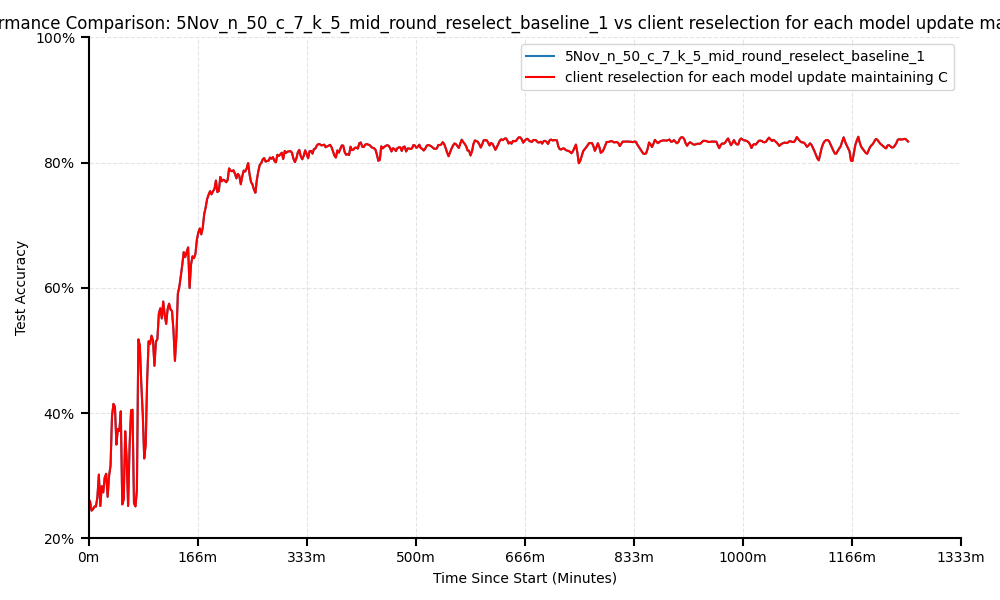
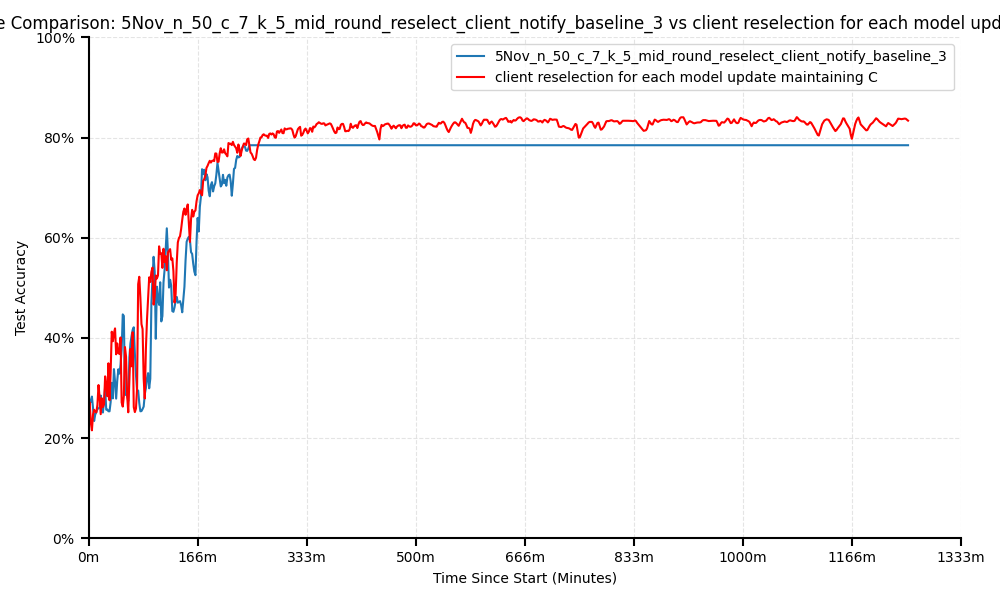
baseline 3

diff --git a/scripts/plotters/log_parser.py b/scripts/plotters/log_parser.py
@@ -405,7 +405,7 @@ LOG_CONFIG = {
 EXPORT_CONFIG = {
     'flame_fwdllm_aggregator': {
         'evaluation_metrics': {
-            'output_filename': '5Nov_n_50_c_7_k_5_mid_round_reselect_baseline_1.csv',
+            'output_filename': '5Nov_n_50_c_7_k_5_mid_round_reselect_client_notify_baseline_3.csv',
             'log_names': ['eval_model'],
             'columns': ['timestamp', 'time_since_start', 'round_id', 'data_id', 'accuracy']
         },
@@ -537,13 +537,17 @@ if __name__ == '__main__':
     # log_file = Path(
     # "/home/dgarg39/aish_test/flame/lib/python/examples/fwdllm/expts/run_tc_expts/log/new/test_agg_fedFwd_distilbert_agnews_lr0.01_client_num_13_numerical_30_10_16_04.log")
 
-    log_file = Path(
-    "/home/dgarg39/aish_test/flame/lib/python/examples/fwdllm/expts/run_tc_expts/log/new/test_agg_fedFwd_distilbert_agnews_lr0.01_client_num_13_numerical_31_10_15_31.log")
+    # log_file = Path(
+    # "/home/dgarg39/aish_test/flame/lib/python/examples/fwdllm/expts/run_tc_expts/log/new/test_agg_fedFwd_distilbert_agnews_lr0.01_client_num_13_numerical_31_10_15_31.log")
     # log_file = Path(
     #     "../logs/test_agg_fedFwd_distilbert_agnews_lr0.01_client_num_10_numerical_19_10_05_18.log")
 
     # log_file = Path(
     #     "../logs/test_agg_fedFwd_distilbert_agnews_lr0.01_client_num_10_numerical_19_10_18_03.log")
+    
+    log_file = Path(
+        "/home/dgarg39/aish_test/flame/lib/python/examples/fwdllm/expts/run_tc_expts/log/new/test_agg_fedFwd_distilbert_agnews_lr0.01_client_num_50_numerical_06_11_01_14.log")
+
     row_proc_steps = [
         create_sequential_id_processor(eval_log_name='eval_model', iter_log_name='var'),
         create_time_calculator_processor(start_log_name='first_distribute_weights'),

diff --git a/scripts/plotters/comparative_plotter.py b/scripts/plotters/comparative_plotter.py
@@ -18,8 +18,8 @@ MIN_MAX_DISABLED = True
 # SYSTEM2_FILES = ["fwdllm_run1.csv", "fwdllm_run2.csv", "fwdllm_run3.csv"]
 # SYSTEM2_NAMES = "FwdLLM"
 
-SYSTEM1_FILES = ["output/5Nov_n_50_c_7_k_5_mid_round_reselect_baseline_1.csv"]
-SYSTEM1_NAME = "5Nov_n_50_c_7_k_5_mid_round_reselect_baseline_1"
+SYSTEM1_FILES = ["output/5Nov_n_50_c_7_k_5_mid_round_reselect_client_notify_baseline_3.csv"]
+SYSTEM1_NAME = "5Nov_n_50_c_7_k_5_mid_round_reselect_client_notify_baseline_3"
 # SYSTEM2_FILES = ["output/19Oct_slow_straggler_evaluation_metrics_stalled.csv"]
 # SYSTEM2_NAMES = "client reselection for each model update"
 SYSTEM2_FILES = ["output/30Oct_no_stall_n_13_c_7_k_5.csv"]
